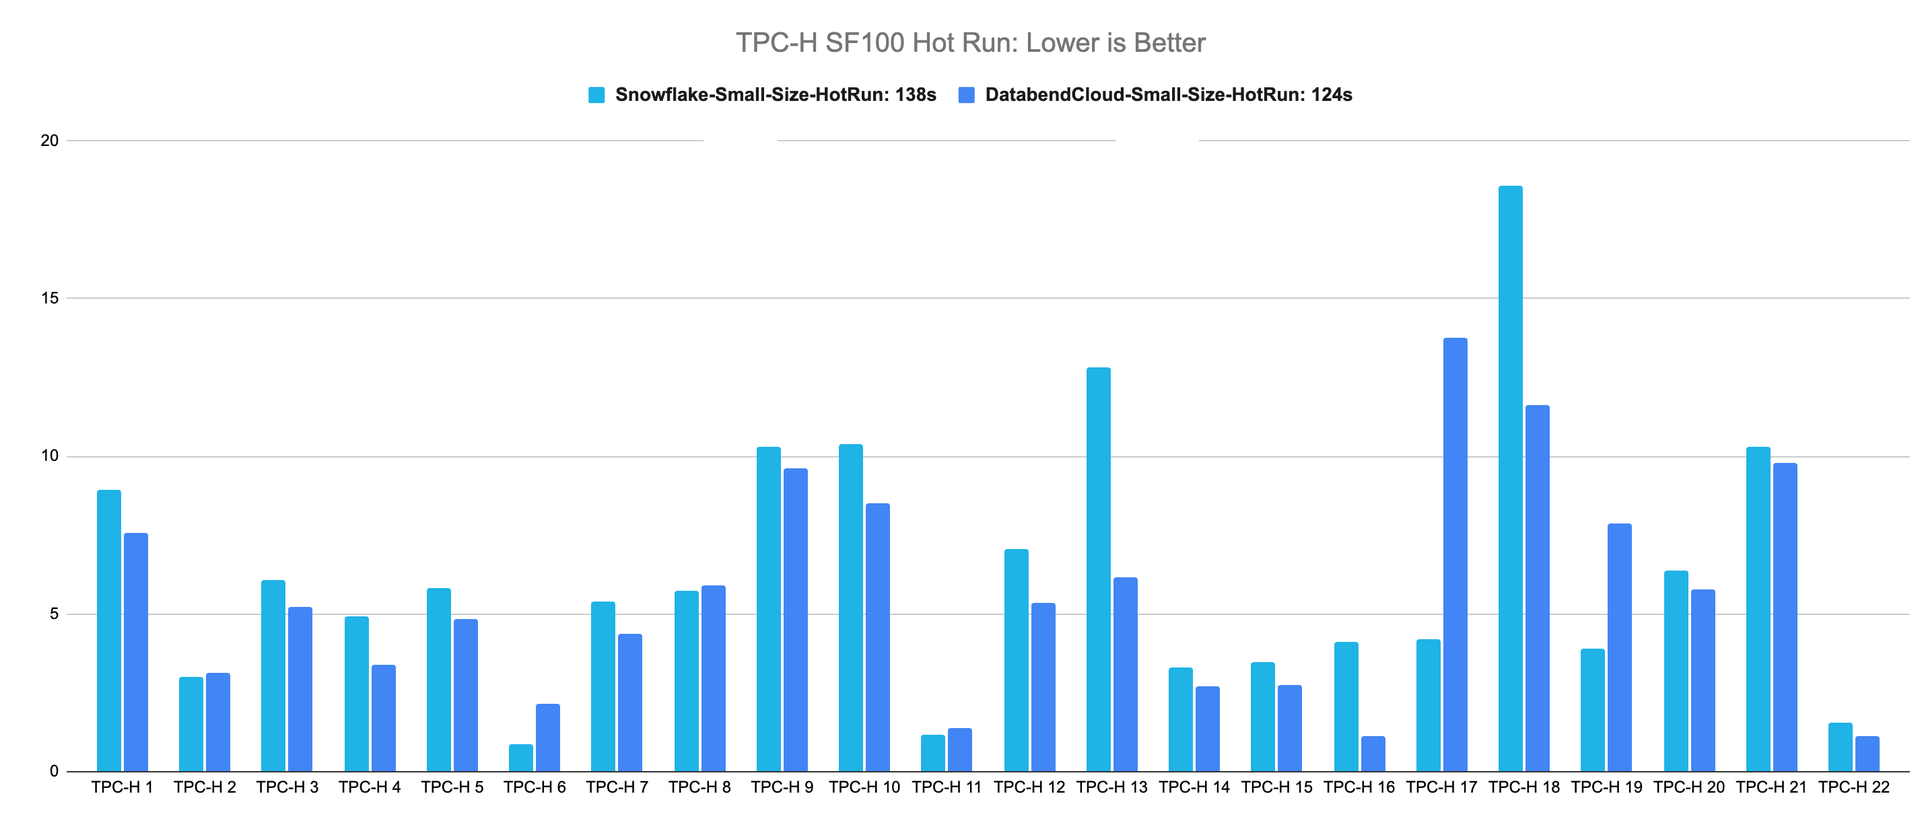
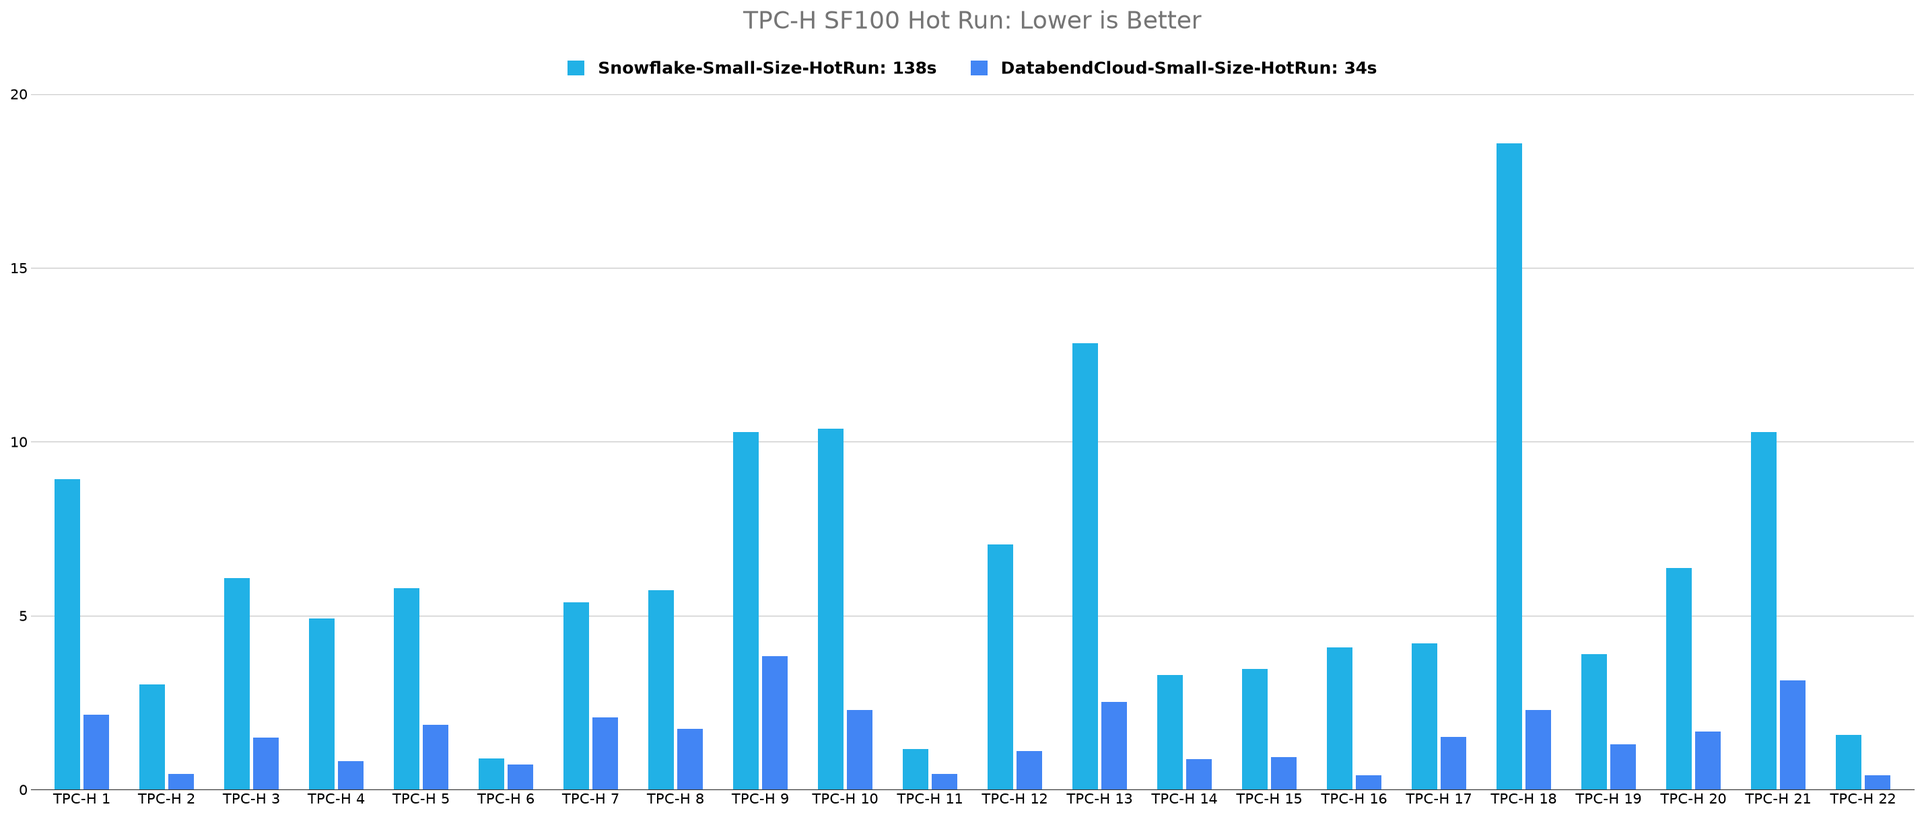
docs: update TPC-H SF100 query benchmark results

diff --git a/docs/en/guides/80-benchmark/10-tpch.md b/docs/en/guides/80-benchmark/10-tpch.md
@@ -6,22 +6,22 @@ benchmark_card:
   title: Databend vs. Snowflake
   views:
     - tab: Time
-      headline: 1.25×
+      headline: 4.53×
       summary: faster cold run
       context: 22 queries · 100 GB · Small
       unit: s
       groups:
         - label: Cold run
           rows:
-            - { label: Databend, value: 166, highlight: true }
+            - { label: Databend, value: 46, highlight: true }
             - { label: Snowflake, value: 207 }
         - label: Hot run
           rows:
-            - { label: Databend, value: 124, highlight: true }
+            - { label: Databend, value: 34, highlight: true }
             - { label: Snowflake, value: 138 }
       note: Lower is better
     - tab: Cost
-      headline: ~60%
+      headline: ~87%
       summary: lower query cost
       context: 22 queries · 100 GB · Small
       prefix: $
@@ -29,11 +29,11 @@ benchmark_card:
       groups:
         - label: Cold run
           rows:
-            - { label: Databend, value: 0.09, highlight: true }
+            - { label: Databend, value: 0.03, highlight: true }
             - { label: Snowflake, value: 0.23 }
         - label: Hot run
           rows:
-            - { label: Databend, value: 0.07, highlight: true }
+            - { label: Databend, value: 0.02, highlight: true }
             - { label: Snowflake, value: 0.15 }
         - label: Data loading
           rows:
@@ -64,7 +64,7 @@ The TPC Benchmark™ and TPC-H™ are trademarks of the Transaction Processing P
 ## Performance and Cost Comparison
 
 - **Data Loading Costs**: Databend achieves a **67% cost reduction** in data loading compared to Snowflake.
-- **Query Execution Costs**: Databend approximately **60% less expensive** for query execution than Snowflake.
+- **Query Execution Costs**: Databend approximately **87% less expensive** for query execution than Snowflake.
 
 :::info[Note]
 
@@ -94,63 +94,63 @@ And remember, **don't just take our word for it — you're encouraged to run and
 
 ![Alt text](@site/static/img/documents/tpch2.png)
 
-| Query          | Snowflake(Total 207s, Cost $0.23) | Databend Cloud(Total 166s, Cost $0.09) |
-| -------------- | --------------------------------- | -------------------------------------- |
-| TPC-H 1        | 11.703                            | 8.036                                  |
-| TPC-H 2        | 4.524                             | 3.786                                  |
-| TPC-H 3        | 8.908                             | 6.040                                  |
-| TPC-H 4        | 8.108                             | 4.462                                  |
-| TPC-H 5        | 9.202                             | 7.014                                  |
-| TPC-H 6        | 1.237                             | 3.234                                  |
-| TPC-H 7        | 9.082                             | 7.345                                  |
-| TPC-H 8        | 10.886                            | 8.976                                  |
-| TPC-H 9        | 18.152                            | 13.340                                 |
-| TPC-H 10       | 13.525                            | 12.891                                 |
-| TPC-H 11       | 2.582                             | 2.183                                  |
-| TPC-H 12       | 10.099                            | 8.839                                  |
-| TPC-H 13       | 13.458                            | 7.206                                  |
-| TPC-H 14       | 8.001                             | 4.612                                  |
-| TPC-H 15       | 8.737                             | 4.621                                  |
-| TPC-H 16       | 4.864                             | 1.645                                  |
-| TPC-H 17       | 5.363                             | 14.315                                 |
-| TPC-H 18       | 19.971                            | 12.058                                 |
-| TPC-H 19       | 9.893                             | 12.579                                 |
-| TPC-H 20       | 8.538                             | 8.836                                  |
-| TPC-H 21       | 16.439                            | 12.270                                 |
-| TPC-H 22       | 3.744                             | 1.926                                  |
-| **Total Time** | **207s**                          | **166s**                               |
-| **Total Cost** | **$0.23**                         | **$0.09**                              |
+| Query          | Snowflake(Total 207s, Cost $0.23) | Databend Cloud(Total 46s, Cost $0.03) |
+| -------------- | --------------------------------- | ------------------------------------- |
+| TPC-H 1        | 11.703                            | 3.467                                 |
+| TPC-H 2        | 4.524                             | 2.745                                 |
+| TPC-H 3        | 8.908                             | 2.982                                 |
+| TPC-H 4        | 8.108                             | 1.530                                 |
+| TPC-H 5        | 9.202                             | 2.421                                 |
+| TPC-H 6        | 1.237                             | 0.745                                 |
+| TPC-H 7        | 9.082                             | 2.130                                 |
+| TPC-H 8        | 10.886                            | 2.213                                 |
+| TPC-H 9        | 18.152                            | 4.032                                 |
+| TPC-H 10       | 13.525                            | 4.219                                 |
+| TPC-H 11       | 2.582                             | 0.627                                 |
+| TPC-H 12       | 10.099                            | 1.460                                 |
+| TPC-H 13       | 13.458                            | 3.085                                 |
+| TPC-H 14       | 8.001                             | 0.886                                 |
+| TPC-H 15       | 8.737                             | 0.937                                 |
+| TPC-H 16       | 4.864                             | 0.561                                 |
+| TPC-H 17       | 5.363                             | 1.686                                 |
+| TPC-H 18       | 19.971                            | 2.492                                 |
+| TPC-H 19       | 9.893                             | 1.627                                 |
+| TPC-H 20       | 8.538                             | 1.673                                 |
+| TPC-H 21       | 16.439                            | 3.718                                 |
+| TPC-H 22       | 3.744                             | 0.446                                 |
+| **Total Time** | **207s**                          | **46s**                               |
+| **Total Cost** | **$0.23**                         | **$0.03**                             |
 
 ### Query Benchmark: Hot Run
 
 ![Alt text](@site/static/img/documents/tpch3.png)
 
-| Query          | Snowflake (Total 138s, Cost $0.15) | Databend Cloud (Total 124s, Cost $0.07) |
-| -------------- | ---------------------------------- | --------------------------------------- |
-| TPC-H 1        | 8.934                              | 7.568                                   |
-| TPC-H 2        | 3.018                              | 3.125                                   |
-| TPC-H 3        | 6.089                              | 5.234                                   |
-| TPC-H 4        | 4.914                              | 3.392                                   |
-| TPC-H 5        | 5.800                              | 4.857                                   |
-| TPC-H 6        | 0.891                              | 2.142                                   |
-| TPC-H 7        | 5.381                              | 4.389                                   |
-| TPC-H 8        | 5.724                              | 5.887                                   |
-| TPC-H 9        | 10.283                             | 9.621                                   |
-| TPC-H 10       | 10.368                             | 8.524                                   |
-| TPC-H 11       | 1.165                              | 1.364                                   |
-| TPC-H 12       | 7.052                              | 5.352                                   |
-| TPC-H 13       | 12.829                             | 6.180                                   |
-| TPC-H 14       | 3.288                              | 2.725                                   |
-| TPC-H 15       | 3.475                              | 2.748                                   |
-| TPC-H 16       | 4.094                              | 1.124                                   |
-| TPC-H 17       | 4.203                              | 13.757                                  |
-| TPC-H 18       | 18.583                             | 11.630                                  |
-| TPC-H 19       | 3.888                              | 7.881                                   |
-| TPC-H 20       | 6.379                              | 5.797                                   |
-| TPC-H 21       | 10.287                             | 9.806                                   |
-| TPC-H 22       | 1.573                              | 1.122                                   |
-| **Total Time** | **138s**                           | **124s**                                |
-| **Total Cost** | **$0.15**                          | **$0.07**                               |
+| Query          | Snowflake (Total 138s, Cost $0.15) | Databend Cloud (Total 34s, Cost $0.02) |
+| -------------- | ---------------------------------- | -------------------------------------- |
+| TPC-H 1        | 8.934                              | 2.154                                  |
+| TPC-H 2        | 3.018                              | 0.442                                  |
+| TPC-H 3        | 6.089                              | 1.491                                  |
+| TPC-H 4        | 4.914                              | 0.816                                  |
+| TPC-H 5        | 5.800                              | 1.854                                  |
+| TPC-H 6        | 0.891                              | 0.722                                  |
+| TPC-H 7        | 5.381                              | 2.070                                  |
+| TPC-H 8        | 5.724                              | 1.753                                  |
+| TPC-H 9        | 10.283                             | 3.840                                  |
+| TPC-H 10       | 10.368                             | 2.294                                  |
+| TPC-H 11       | 1.165                              | 0.444                                  |
+| TPC-H 12       | 7.052                              | 1.110                                  |
+| TPC-H 13       | 12.829                             | 2.527                                  |
+| TPC-H 14       | 3.288                              | 0.874                                  |
+| TPC-H 15       | 3.475                              | 0.936                                  |
+| TPC-H 16       | 4.094                              | 0.409                                  |
+| TPC-H 17       | 4.203                              | 1.514                                  |
+| TPC-H 18       | 18.583                             | 2.284                                  |
+| TPC-H 19       | 3.888                              | 1.311                                  |
+| TPC-H 20       | 6.379                              | 1.662                                  |
+| TPC-H 21       | 10.287                             | 3.134                                  |
+| TPC-H 22       | 1.573                              | 0.409                                  |
+| **Total Time** | **138s**                           | **34s**                                |
+| **Total Cost** | **$0.15**                          | **$0.02**                              |
 
 ## Reproduce the Benchmark
 

diff --git a/docs/cn/guides/80-benchmark/10-tpch.md b/docs/cn/guides/80-benchmark/10-tpch.md
@@ -6,22 +6,22 @@ benchmark_card:
   title: Databend vs. Snowflake
   views:
     - tab: 耗时
-      headline: 1.25×
+      headline: 4.53×
       summary: 冷启动查询速度
       context: 22 条查询 · 100 GB · Small 规格
       unit: 秒
       groups:
         - label: 冷启动
           rows:
-            - { label: Databend, value: 166, highlight: true }
+            - { label: Databend, value: 46, highlight: true }
             - { label: Snowflake, value: 207 }
         - label: 热启动
           rows:
-            - { label: Databend, value: 124, highlight: true }
+            - { label: Databend, value: 34, highlight: true }
             - { label: Snowflake, value: 138 }
       note: 耗时越短越好
     - tab: 成本
-      headline: ~60%
+      headline: ~87%
       summary: 查询成本节省
       context: 22 条查询 · 100 GB · Small 规格
       prefix: $
@@ -29,11 +29,11 @@ benchmark_card:
       groups:
         - label: 冷启动
           rows:
-            - { label: Databend, value: 0.09, highlight: true }
+            - { label: Databend, value: 0.03, highlight: true }
             - { label: Snowflake, value: 0.23 }
         - label: 热启动
           rows:
-            - { label: Databend, value: 0.07, highlight: true }
+            - { label: Databend, value: 0.02, highlight: true }
             - { label: Snowflake, value: 0.15 }
         - label: 数据加载
           rows:
@@ -64,7 +64,7 @@ TPC Benchmark™ 和 TPC-H™ 是事务处理性能委员会 ([TPC](http://www.t
 ## 性能和成本比较
 
 - **数据加载成本**：与 Snowflake 相比，Databend 在数据加载方面实现了 **67% 的成本降低**。
-- **查询执行成本**：Databend 的查询执行成本比 Snowflake 大约 **低 60%**。
+- **查询执行成本**：Databend 的查询执行成本比 Snowflake 大约 **低 87%**。
 
 :::info[Note]
 
@@ -94,63 +94,63 @@ TPC Benchmark™ 和 TPC-H™ 是事务处理性能委员会 ([TPC](http://www.t
 
 ![Alt text](@site/static/img/documents/tpch2.png)
 
-| Query          | Snowflake(Total 207s, Cost $0.23) | Databend Cloud(Total 166s, Cost $0.09) |
-| -------------- | --------------------------------- | -------------------------------------- |
-| TPC-H 1        | 11.703                            | 8.036                                  |
-| TPC-H 2        | 4.524                             | 3.786                                  |
-| TPC-H 3        | 8.908                             | 6.040                                  |
-| TPC-H 4        | 8.108                             | 4.462                                  |
-| TPC-H 5        | 9.202                             | 7.014                                  |
-| TPC-H 6        | 1.237                             | 3.234                                  |
-| TPC-H 7        | 9.082                             | 7.345                                  |
-| TPC-H 8        | 10.886                            | 8.976                                  |
-| TPC-H 9        | 18.152                            | 13.340                                 |
-| TPC-H 10       | 13.525                            | 12.891                                 |
-| TPC-H 11       | 2.582                             | 2.183                                  |
-| TPC-H 12       | 10.099                            | 8.839                                  |
-| TPC-H 13       | 13.458                            | 7.206                                  |
-| TPC-H 14       | 8.001                             | 4.612                                  |
-| TPC-H 15       | 8.737                             | 4.621                                  |
-| TPC-H 16       | 4.864                             | 1.645                                  |
-| TPC-H 17       | 5.363                             | 14.315                                 |
-| TPC-H 18       | 19.971                            | 12.058                                 |
-| TPC-H 19       | 9.893                             | 12.579                                 |
-| TPC-H 20       | 8.538                             | 8.836                                  |
-| TPC-H 21       | 16.439                            | 12.270                                 |
-| TPC-H 22       | 3.744                             | 1.926                                  |
-| **Total Time** | **207s**                          | **166s**                               |
-| **Total Cost** | **$0.23**                         | **$0.09**                              |
+| Query          | Snowflake(Total 207s, Cost $0.23) | Databend Cloud(Total 46s, Cost $0.03) |
+| -------------- | --------------------------------- | ------------------------------------- |
+| TPC-H 1        | 11.703                            | 3.467                                 |
+| TPC-H 2        | 4.524                             | 2.745                                 |
+| TPC-H 3        | 8.908                             | 2.982                                 |
+| TPC-H 4        | 8.108                             | 1.530                                 |
+| TPC-H 5        | 9.202                             | 2.421                                 |
+| TPC-H 6        | 1.237                             | 0.745                                 |
+| TPC-H 7        | 9.082                             | 2.130                                 |
+| TPC-H 8        | 10.886                            | 2.213                                 |
+| TPC-H 9        | 18.152                            | 4.032                                 |
+| TPC-H 10       | 13.525                            | 4.219                                 |
+| TPC-H 11       | 2.582                             | 0.627                                 |
+| TPC-H 12       | 10.099                            | 1.460                                 |
+| TPC-H 13       | 13.458                            | 3.085                                 |
+| TPC-H 14       | 8.001                             | 0.886                                 |
+| TPC-H 15       | 8.737                             | 0.937                                 |
+| TPC-H 16       | 4.864                             | 0.561                                 |
+| TPC-H 17       | 5.363                             | 1.686                                 |
+| TPC-H 18       | 19.971                            | 2.492                                 |
+| TPC-H 19       | 9.893                             | 1.627                                 |
+| TPC-H 20       | 8.538                             | 1.673                                 |
+| TPC-H 21       | 16.439                            | 3.718                                 |
+| TPC-H 22       | 3.744                             | 0.446                                 |
+| **Total Time** | **207s**                          | **46s**                               |
+| **Total Cost** | **$0.23**                         | **$0.03**                             |
 
 ### 查询基准测试：热启动
 
 ![Alt text](@site/static/img/documents/tpch3.png)
 
-| 查询       | Snowflake (总计 138s, 成本 $0.15) | Databend Cloud (总计 124s, 成本 $0.07) |
-| ---------- | --------------------------------- | -------------------------------------- |
-| TPC-H 1    | 8.934                             | 7.568                                  |
-| TPC-H 2    | 3.018                             | 3.125                                  |
-| TPC-H 3    | 6.089                             | 5.234                                  |
-| TPC-H 4    | 4.914                             | 3.392                                  |
-| TPC-H 5    | 5.800                             | 4.857                                  |
-| TPC-H 6    | 0.891                             | 2.142                                  |
-| TPC-H 7    | 5.381                             | 4.389                                  |
-| TPC-H 8    | 5.724                             | 5.887                                  |
-| TPC-H 9    | 10.283                            | 9.621                                  |
-| TPC-H 10   | 10.368                            | 8.524                                  |
-| TPC-H 11   | 1.165                             | 1.364                                  |
-| TPC-H 12   | 7.052                             | 5.352                                  |
-| TPC-H 13   | 12.829                            | 6.180                                  |
-| TPC-H 14   | 3.288                             | 2.725                                  |
-| TPC-H 15   | 3.475                             | 2.748                                  |
-| TPC-H 16   | 4.094                             | 1.124                                  |
-| TPC-H 17   | 4.203                             | 13.757                                 |
-| TPC-H 18   | 18.583                            | 11.630                                 |
-| TPC-H 19   | 3.888                             | 7.881                                  |
-| TPC-H 20   | 6.379                             | 5.797                                  |
-| TPC-H 21   | 10.287                            | 9.806                                  |
-| TPC-H 22   | 1.573                             | 1.122                                  |
-| **总时间** | **138s**                          | **124s**                               |
-| **总成本** | **$0.15**                         | **$0.07**                              |
+| 查询       | Snowflake (总计 138s, 成本 $0.15) | Databend Cloud (总计 34s, 成本 $0.02) |
+| ---------- | --------------------------------- | ------------------------------------- |
+| TPC-H 1    | 8.934                             | 2.154                                 |
+| TPC-H 2    | 3.018                             | 0.442                                 |
+| TPC-H 3    | 6.089                             | 1.491                                 |
+| TPC-H 4    | 4.914                             | 0.816                                 |
+| TPC-H 5    | 5.800                             | 1.854                                 |
+| TPC-H 6    | 0.891                             | 0.722                                 |
+| TPC-H 7    | 5.381                             | 2.070                                 |
+| TPC-H 8    | 5.724                             | 1.753                                 |
+| TPC-H 9    | 10.283                            | 3.840                                 |
+| TPC-H 10   | 10.368                            | 2.294                                 |
+| TPC-H 11   | 1.165                             | 0.444                                 |
+| TPC-H 12   | 7.052                             | 1.110                                 |
+| TPC-H 13   | 12.829                            | 2.527                                 |
+| TPC-H 14   | 3.288                             | 0.874                                 |
+| TPC-H 15   | 3.475                             | 0.936                                 |
+| TPC-H 16   | 4.094                             | 0.409                                 |
+| TPC-H 17   | 4.203                             | 1.514                                 |
+| TPC-H 18   | 18.583                            | 2.284                                 |
+| TPC-H 19   | 3.888                             | 1.311                                 |
+| TPC-H 20   | 6.379                             | 1.662                                 |
+| TPC-H 21   | 10.287                            | 3.134                                 |
+| TPC-H 22   | 1.573                             | 0.409                                 |
+| **总时间** | **138s**                          | **34s**                               |
+| **总成本** | **$0.15**                         | **$0.02**                             |
 
 ## 重现基准测试
 
